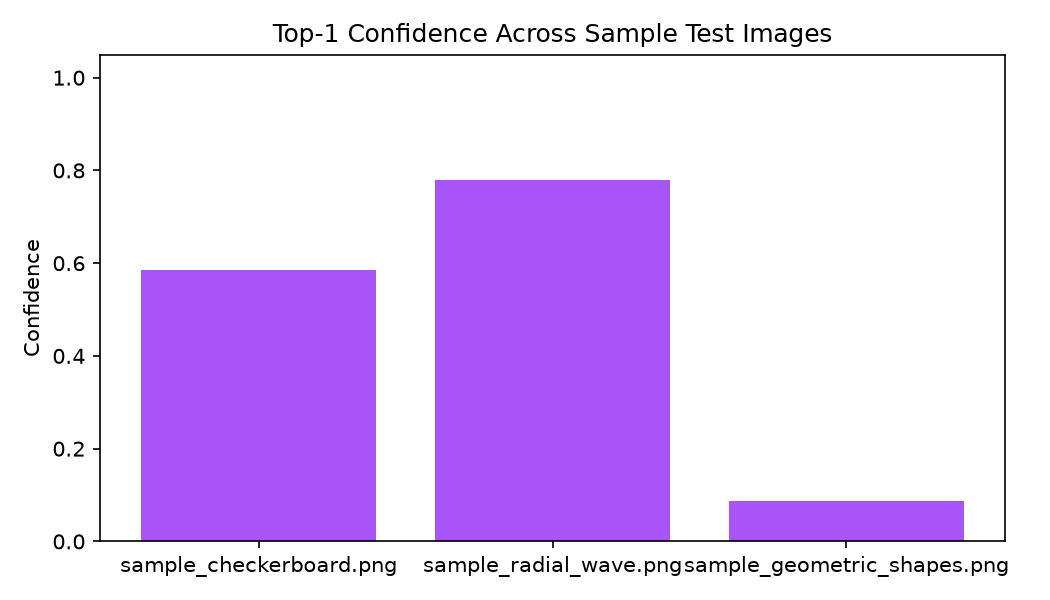
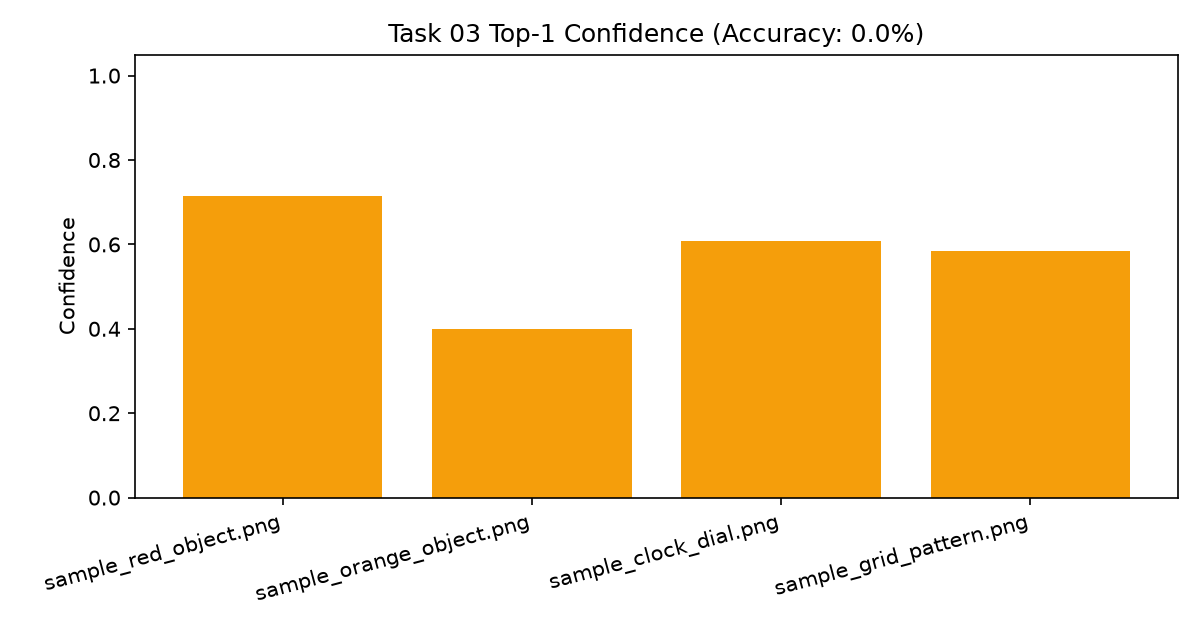
Re-trained all models

diff --git a/ml_projects/run_all_tasks.py b/ml_projects/run_all_tasks.py
@@ -1,0 +1,90 @@
+import os
+import subprocess
+import sys
+import time
+from pathlib import Path
+
+ML_PROJECTS_DIR = Path(__file__).resolve().parent
+PROJECT_ROOT = ML_PROJECTS_DIR.parent
+
+TASK_SCRIPTS = [
+    ("01_EDA", ML_PROJECTS_DIR / "01_EDA" / "src" / "eda.py"),
+    ("02_Linear_Regression", ML_PROJECTS_DIR / "02_Linear_Regression" / "src" / "linear_regression.py"),
+    ("03_Image_Classification", ML_PROJECTS_DIR / "03_Image_Classification" / "src" / "image_classification.py"),
+    ("04_KMeans_Clustering", ML_PROJECTS_DIR / "04_KMeans_Clustering" / "src" / "kmeans.py"),
+    ("05_Decision_Tree", ML_PROJECTS_DIR / "05_Decision_Tree" / "src" / "decision_tree.py"),
+    ("06_Naive_Bayes", ML_PROJECTS_DIR / "06_Naive_Bayes" / "src" / "naive_bayes.py"),
+    ("07_PCA", ML_PROJECTS_DIR / "07_PCA" / "src" / "pca.py"),
+    ("08_Neural_Network", ML_PROJECTS_DIR / "08_Neural_Network" / "src" / "neural_network.py"),
+    ("09_ARIMA", ML_PROJECTS_DIR / "09_ARIMA" / "src" / "arima.py"),
+    ("10_SVM", ML_PROJECTS_DIR / "10_SVM" / "src" / "svm.py"),
+]
+
+
+def resolve_python_executable() -> Path:
+    """Prefer an existing virtual environment's python binary if present."""
+    candidate_venv_dirs = [
+        ML_PROJECTS_DIR / ".venv",
+        ML_PROJECTS_DIR / "venv",
+        PROJECT_ROOT / ".venv",
+        PROJECT_ROOT / "venv",
+    ]
+
+    for venv_dir in candidate_venv_dirs:
+        if os.name == "nt":
+            python_bin = venv_dir / "Scripts" / "python.exe"
+        else:
+            python_bin = venv_dir / "bin" / "python"
+
+        if python_bin.is_file():
+            return python_bin
+
+    return Path(sys.executable)
+
+
+def main(stop_on_error: bool = False) -> int:
+    python_exe = resolve_python_executable()
+    print(f"Using Python interpreter: {python_exe}")
+
+    failures = []
+    start_all = time.perf_counter()
+
+    for task_name, script_path in TASK_SCRIPTS:
+        if not script_path.exists():
+            print(f"[SKIP] {task_name}: script not found at {script_path}")
+            failures.append((task_name, "Missing script"))
+            if stop_on_error:
+                break
+            continue
+
+        print(f"\n=== Running {task_name} ({script_path.relative_to(PROJECT_ROOT)}) ===")
+        t0 = time.perf_counter()
+        result = subprocess.run(
+            [str(python_exe), str(script_path)],
+            cwd=str(PROJECT_ROOT),
+            text=True,
+        )
+        elapsed = time.perf_counter() - t0
+
+        if result.returncode == 0:
+            print(f"[OK] {task_name} completed in {elapsed:.2f}s")
+        else:
+            print(f"[FAIL] {task_name} exited with code {result.returncode} ({elapsed:.2f}s)")
+            failures.append((task_name, f"Exit code {result.returncode}"))
+            if stop_on_error:
+                break
+
+    total_elapsed = time.perf_counter() - start_all
+    print(f"\nFinished in {total_elapsed:.2f}s. Total tasks: {len(TASK_SCRIPTS)}, Failed: {len(failures)}")
+
+    if failures:
+        print("Failed tasks:")
+        for name, reason in failures:
+            print(f"  - {name}: {reason}")
+        return 1
+
+    return 0
+
+
+if __name__ == "__main__":
+    raise SystemExit(main(stop_on_error="--stop-on-error" in sys.argv))
